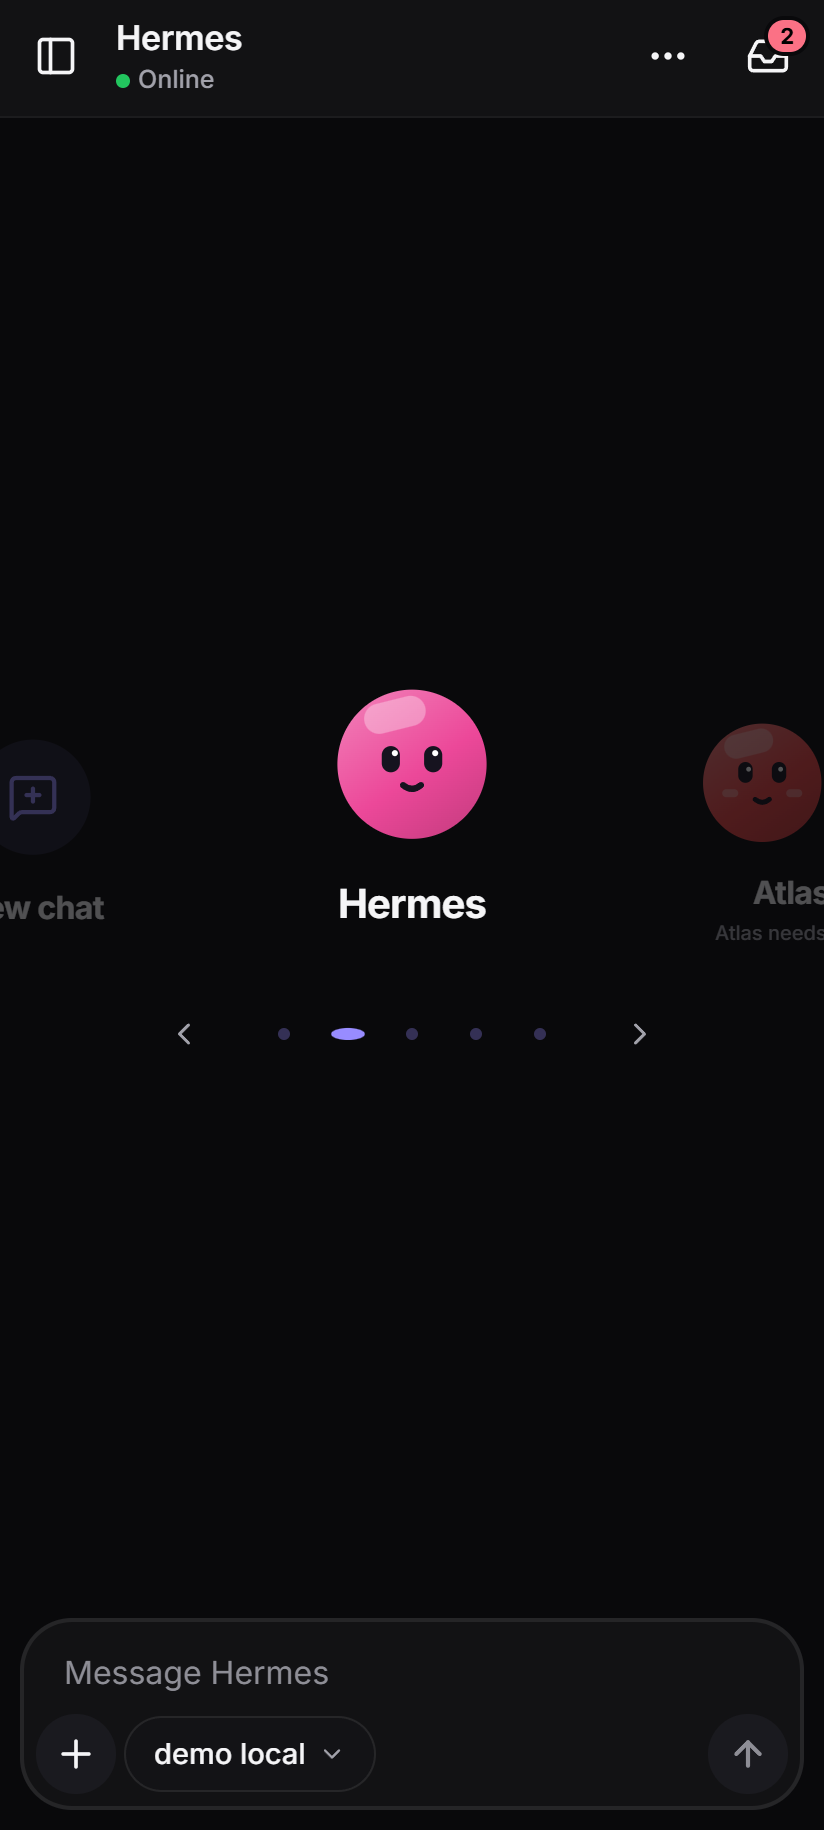
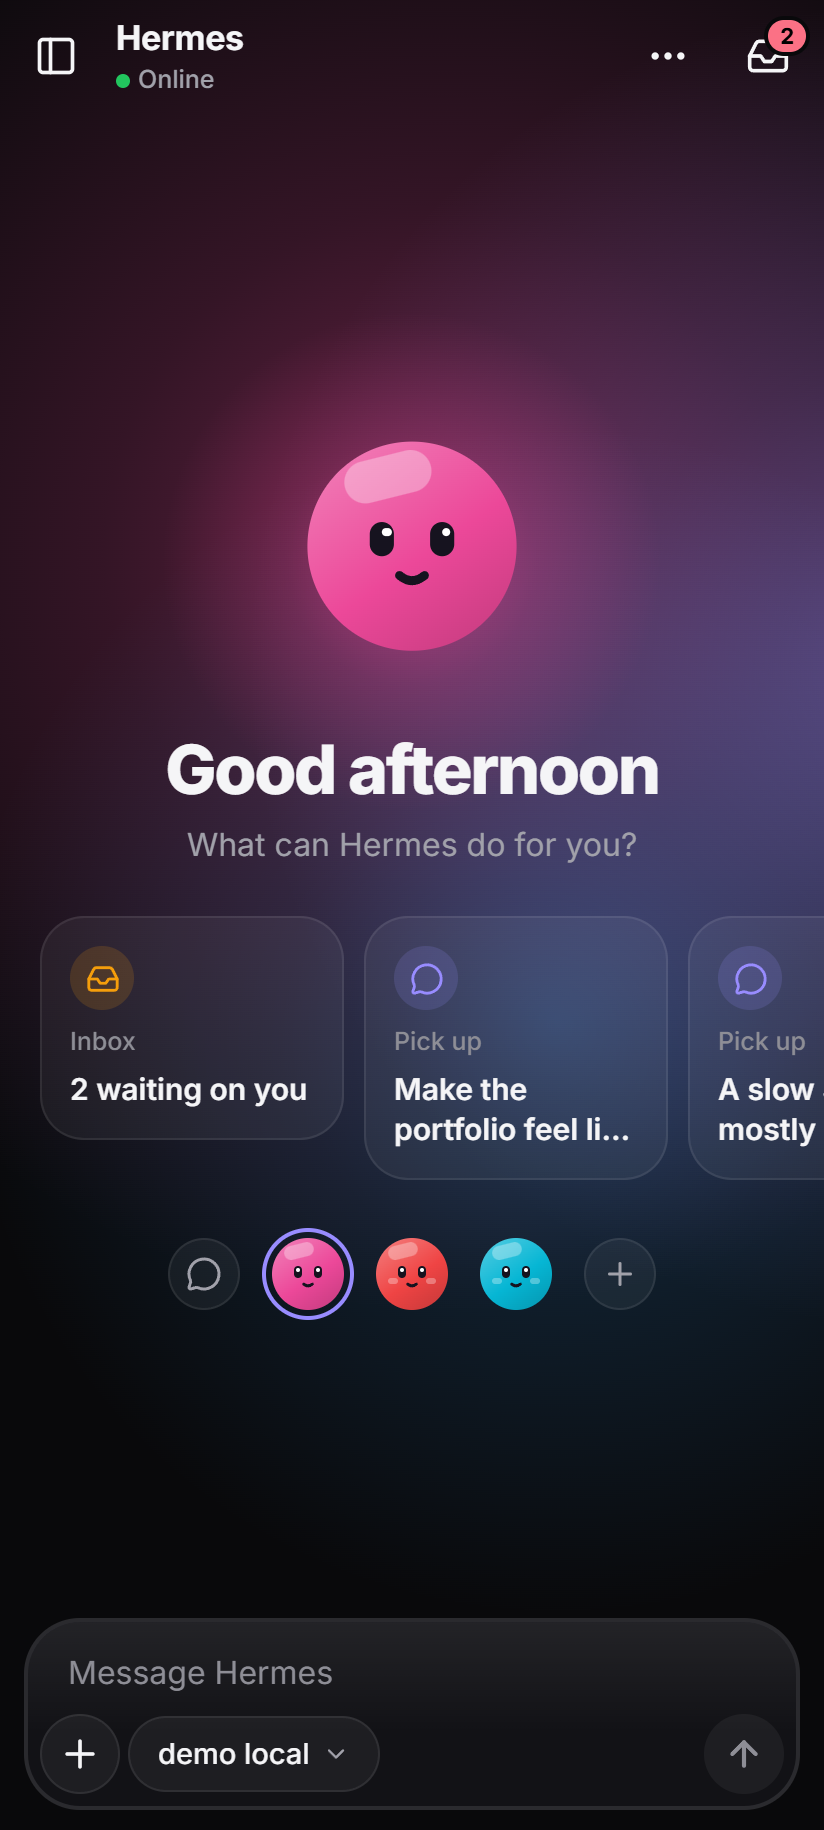
Keep the landing's bot row on one line; show the new look in the README
The bot faces scroll sideways instead of wrapping when there are many bots, and untitled chats
no longer appear as things to pick up.

diff --git a/app/src/components/Landing.tsx b/app/src/components/Landing.tsx
@@ -56,7 +56,9 @@ export const Landing = memo(function Landing({ server, mode, focused, onPetLayou
   const recent = useMemo(() => {
     if (!rt || fresh) return [];
     const home = homeChat(rt);
-    return Object.values(rt.chats).filter((c) => c.id !== home && c.kind !== 'home' && !archived.includes(chatKey(server.id, c.id)))
+    // Untitled chats ("New chat") say nothing about what you'd pick up, so they stay in the sidebar.
+    return Object.values(rt.chats).filter((c) => c.id !== home && c.kind !== 'home' && c.title && c.title !== 'New chat'
+      && !archived.includes(chatKey(server.id, c.id)))
       .sort((a, b) => b.updated_at - a.updated_at).slice(0, 3);
   }, [rt?.chats, fresh, archived, server.id]); // eslint-disable-line react-hooks/exhaustive-deps
 
@@ -118,7 +120,8 @@ function BotRow({ server, mode, onMode, onAddBot }: { server: Server; mode: Land
     const st = useApp.getState();
     if (st.selection.serverId !== bot.id) st.select(bot.id, homeChat(st.runtime[bot.id]));
   };
-  return <View style={s.bots}>
+  return <ScrollView horizontal showsHorizontalScrollIndicator={false} style={s.botScroll} contentContainerStyle={s.bots}
+    keyboardShouldPersistTaps="handled" accessibilityLabel="Your bots">
     <Tap feedback="selection" accessibilityLabel="Start a new chat" accessibilityState={{ selected: mode === 'new-chat' }}
       onPress={() => onMode(mode === 'new-chat' ? 'bot' : 'new-chat')} style={[s.botRing, mode === 'new-chat' && { borderColor: t.colors.accent }]}>
       <View style={[s.botPlus, { backgroundColor: mode === 'new-chat' ? t.colors.accentSoft : t.colors.card }]}>
@@ -136,7 +139,7 @@ function BotRow({ server, mode, onMode, onAddBot }: { server: Server; mode: Land
     <Tap feedback="selection" accessibilityLabel="Add a bot" onPress={onAddBot} style={s.botRing}>
       <View style={[s.botPlus, { backgroundColor: t.colors.card }]}><Plus size={18} color={t.colors.textSecondary} /></View>
     </Tap>
-  </View>;
+  </ScrollView>;
 }
 
 /** A soft disc of the bot's colour behind its pet. */
@@ -184,7 +187,8 @@ const useStyles = makeStyles((t) => ({
   cardIcon: { width: 32, height: 32, borderRadius: 16, alignItems: 'center', justifyContent: 'center', marginBottom: 2 },
   kicker: { ...t.type.caption, color: t.colors.textTertiary },
   cardTitle: { fontFamily: t.fonts.semibold, fontSize: 15, lineHeight: 20, color: t.colors.text },
-  bots: { flexDirection: 'row', alignItems: 'center', justifyContent: 'center', flexWrap: 'wrap', gap: 6, marginTop: t.space.xl, paddingHorizontal: 20 },
+  botScroll: { flexGrow: 0, width: '100%', marginTop: t.space.xl },
+  bots: { flexGrow: 1, flexDirection: 'row', alignItems: 'center', justifyContent: 'center', gap: 6, paddingHorizontal: 20 },
   botRing: { padding: 3, borderRadius: 999, borderWidth: 2, borderColor: 'transparent' },
   botPlus: { width: 36, height: 36, borderRadius: 18, alignItems: 'center', justifyContent: 'center', borderWidth: 1, borderColor: t.colors.cardBorder },
 }));
